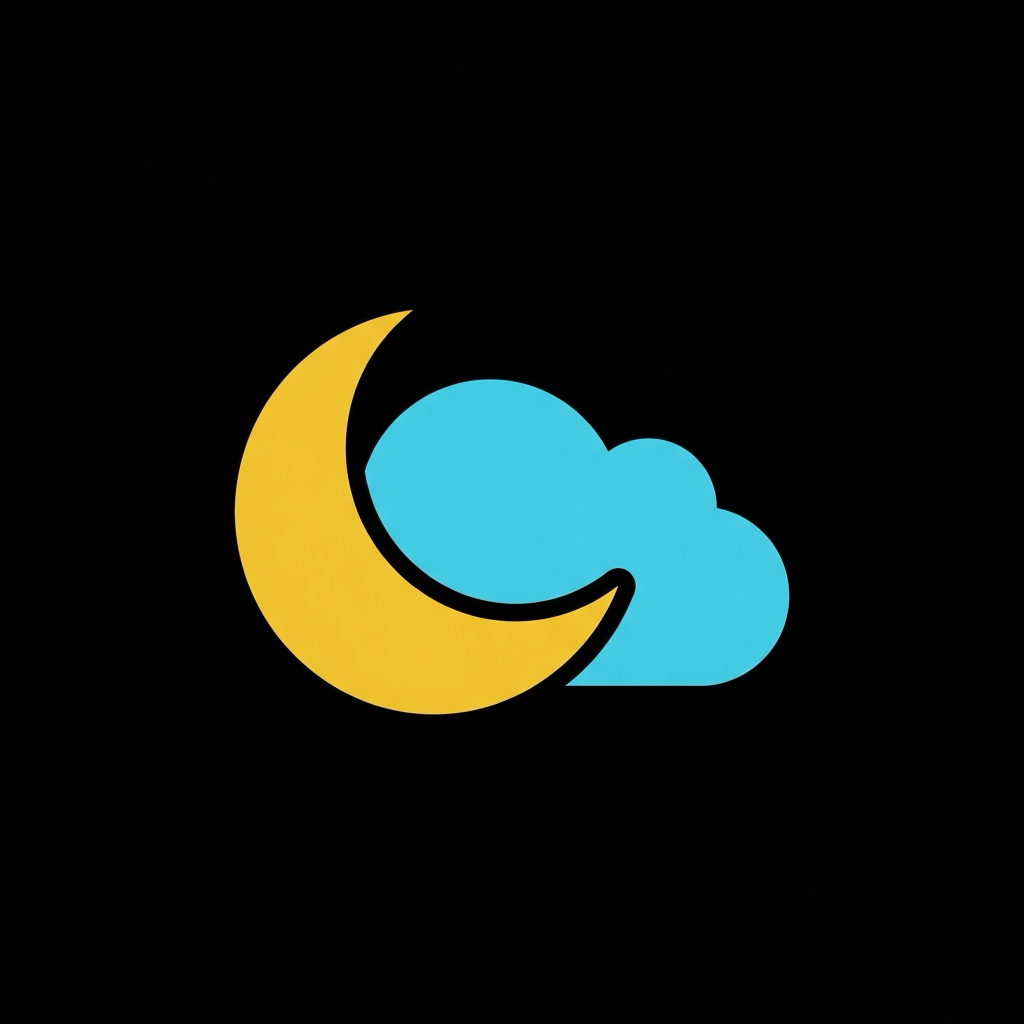
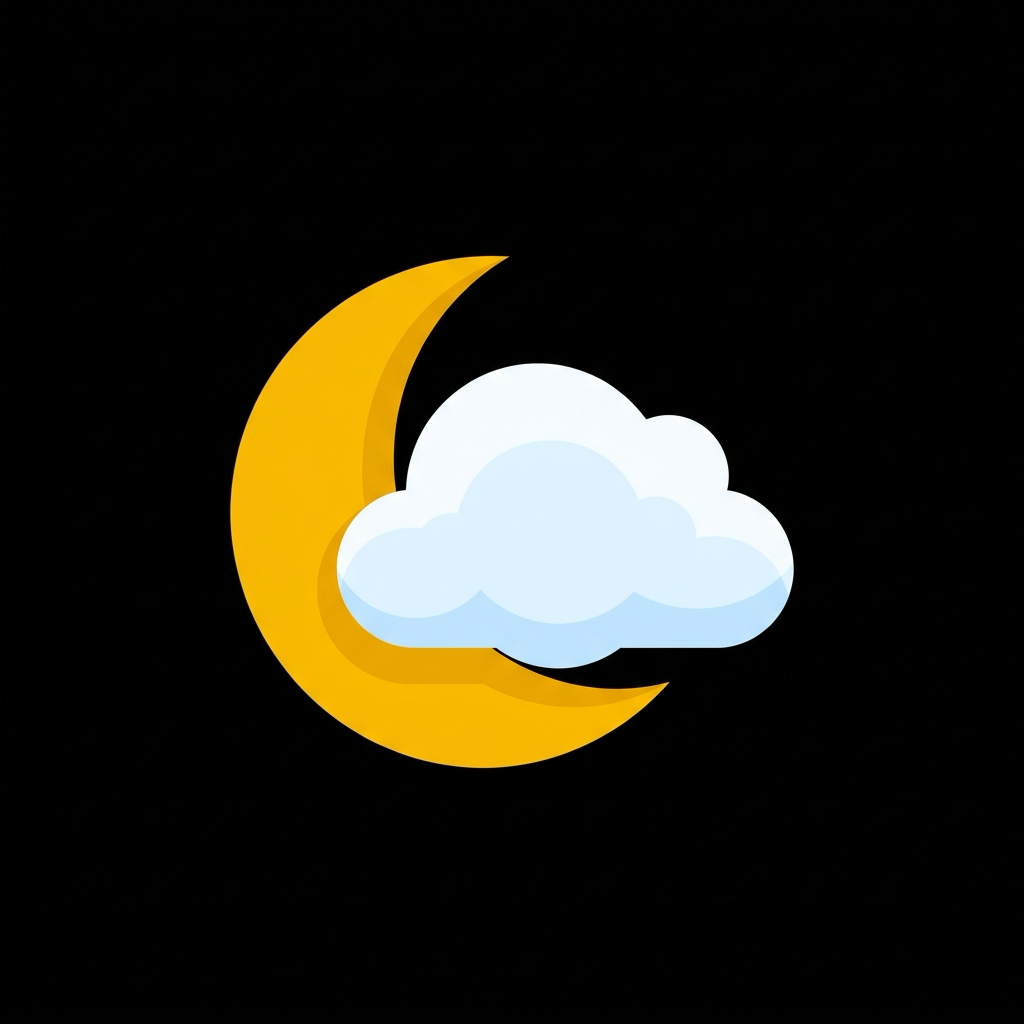
Se mejoran iconos de nubes que estaban muy oscuros y no se visualizaban bien

Changed region(s): [[0.2188, 0.25, 0.7812, 0.75]]

diff --git a/clock.py b/clock.py
@@ -103,7 +103,7 @@ for name in icon_names:
     if os.path.isfile(path):
         try:
             img = pygame.image.load(path)
-            if name in ("moon.png", "cloudy-night.png"):
+            if name in ("moon.png", "cloudy-night.png", "cloudy-day.png"):
                 img = img.convert()
                 img.set_colorkey((0, 0, 0))
             else:
